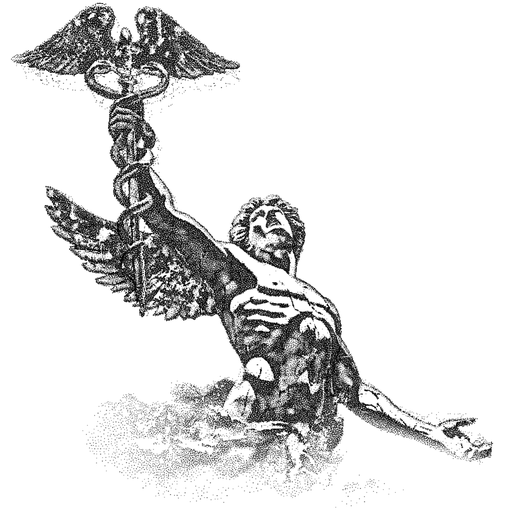
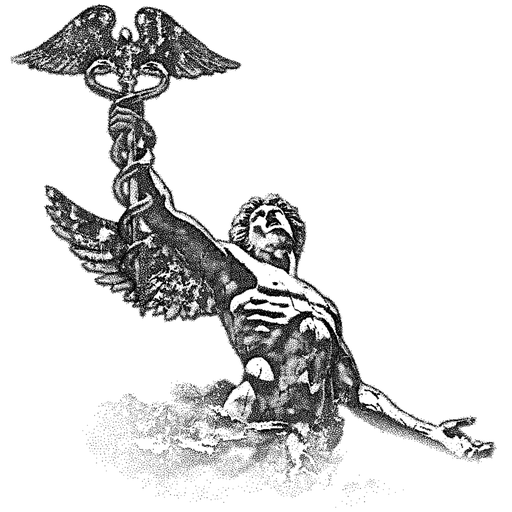
Keep the figure's detail as it turns: it moves as rigid parts, and its edges no longer spray apart
The owner's biggest complaint: as the figure moves the details get lost, some parts move and some don't. Measured
first (tools/qa/slide.mjs, new): for every pixel of the shipped depth map, its screen shift between yaw 0 and 16
degrees, with the engine's own smoothing, rotation, and projection at 1440 x 900; a rigid turn keeps that shift
smooth. Its local spread over neighbouring pixels was 4.5 px at the 95th percentile and 6.8 at the 99th, and 11.8%
of the figure slid more than 2 px apart from its neighbours: all along the outlines, where the depth model's surface
falls away towards the sky over a few pixels (the fringe's depth was as low as 0.1 against 0.6-0.9 inside), and on
the feathers, the coils, and the fingers, where it is noisy. That is the spray in 2x crops at the sway's extremes:
the fist, the open hand, the face, the far edge of the wing and of the chest, the caduceus's wings
(tools/qa/poses.mjs and crops.py, new, make those crops beside the avatar).

build.py now lays the relief out as rigid parts (parts(), rigid()): the big wing, the caduceus with its wings and
snakes, the raised arm and its fist, the head, the torso, the outstretched arm and its hand, and the base of clouds,
rubble, and lightning, drawn as polygons on the avatar; below the fist the caduceus is what lies nearer than the wing
it crosses (their depths part at 0.69). Each part's depth is smoothed inside its solid core only and carried out to
[…]

Changed region(s): [[0.0, 0.0, 0.9688, 0.9062], [0.5312, 0.6562, 0.5625, 0.6875], [0.3125, 0.7812, 0.3438, 0.8125]]

diff --git a/index.html b/index.html
@@ -76,7 +76,7 @@
           <li><a href="/work/?theme=physics-software" data-theme-link="physics-software"><span class="t-label muted">03</span><span class="t-small">Physics software</span><span class="t-label muted num">01</span></a></li>
         </ol>
       </nav>
-      <div class="fig-note"><p class="t-label muted">Fig. 0&nbsp;· Interactive sculpture</p><p class="t-small">My GitHub avatar as <span data-dot-count>92,319</span> dots in five materials, lifted into 3D with a monocular depth map. <span class="fine">Move the cursor to stir them.</span><span class="coarse">Drag sideways to turn it.</span></p><p class="fig-telemetry t-label muted num" data-hero-telemetry aria-hidden="true" hidden></p></div>
+      <div class="fig-note"><p class="t-label muted">Fig. 0&nbsp;· Interactive sculpture</p><p class="t-small">My GitHub avatar as <span data-dot-count>92,322</span> dots in five materials, lifted into 3D with a monocular depth map. <span class="fine">Move the cursor to stir them.</span><span class="coarse">Drag sideways to turn it.</span></p><p class="fig-telemetry t-label muted num" data-hero-telemetry aria-hidden="true" hidden></p></div>
     </div>
   </section>
 

diff --git a/js/hero.js b/js/hero.js
@@ -796,8 +796,10 @@
     "  px += (glint ? vec2(0.0) : flow) + u_offset;",
     "  float size = u_dot * (0.78 + 0.5 * a_p.w) * persp * persp * (1.0 + 0.3 * u_beat) * (1.0 + 0.6 * lift);",
     "  size *= shade * (1.0 + 0.4 * tw) * (1.0 + 0.25 * band) * (1.0 + 0.6 * star) * (1.0 - 0.3 * blown) * (1.0 + 0.2 * regrow) * (1.0 + 0.35 * strike);",
-    // fine features (high detail) are drawn with smaller dots, broad shadows with larger ones
-    "  size *= mix(1.0, 0.82, a_c.b);",
+    // fine features (high detail) are drawn with smaller dots, broad shadows with larger ones, on screens with the pixels
+    // for it: below 1.5 device pixels per CSS pixel a smaller dot is smaller than a pixel, and as the figure turns it
+    // flickers in and out of the pixels it crosses
+    "  size *= mix(1.0, 0.82, a_c.b * step(1.5, u_dpr));",
     // the face and the hands sit on a grid twice as fine: four dots, each 62% the size, where one would be
     "  size *= mix(1.0, 0.62, a_e.z);",
     "  size = mix(size * 0.7, size, k);",

diff --git a/tools/hero/build.py b/tools/hero/build.py
@@ -6,7 +6,8 @@ Turns assets/avatar.jpg into the data the WebGL engine (js/hero.js) stipples at 
                              in 64 levels (dense where the statue is dark)
   assets/hero/light.webp     896x896, lossless, gray: where the dots go on dark paper, where they stand for light
                              (dense where the statue is lit), in 64 levels
-  assets/hero/depth.webp     448x448, lossless: R = depth (near = bright, 0 = outside the figure), G = detail,
+  assets/hero/depth.webp     448x448, lossless: R = depth (near = bright, 0 = outside the figure), as rigid parts
+                             (rigid()), G = detail,
                              B = the sky's stars (0, or 1 + 254 x a star's strength)
   assets/hero/color.webp     448x448, lossless RGBA: R = material (gold, marble, cloud, lightning, glint) x 51,
                              G = how strongly the pixel belongs to it, B = how much of the figure there is the cloud
@@ -41,6 +42,7 @@ NORMALS_INPUT = 768
 INK_LEVELS = 64
 DENSITY = 0.85
 SHARPEN = 0.7                          # the unsharp mask over the whole figure
+STILL_GAIN = (0.965, 1.02)                # how wide the stills' dots are drawn, for the ink map and the light map
 CAVITY_INK, CAVITY_LIGHT = 0.35, 0.45  # how much a hollow darkens the ink, and takes from the light
 CLOUD_INK, CLOUD_LIGHT = 0.62, 0.6     # the clouds' darkest ink on light paper, and their brightest light on dark
 # The core of the body, in the chest (figure units): a sheen's wave of light runs out of the body from here.
@@ -286,7 +288,95 @@ def maps():
     # inside the bank the depth is smoothed and drawn into a narrow range around the statue's base.
     calm = blurf(vapour, 5.0)
     relief = dep * (1 - calm) + calm * (0.64 + 0.28 * blurf(dep, 8.0))
+    relief = rigid(relief, parts(relief, mask, statue))
     return relief, ink, light, mask, statue, detail, own
+
+
+# The figure's rigid parts, each of which turns as one body (labels 1-7 in PARTS order, 0 outside the figure):
+PARTS = ['wing', 'caduceus', 'arm', 'head', 'torso', 'reach', 'base']
+# drawn as polygons in the 424 px avatar's coordinates. The caduceus: its wings and the snakes' heads above the fist,
+# and below it the staff and the coils, which cross the wing in front of it (CADUCEUS_NEAR); the fist; the big wing,
+# up under the raised arm; the raised arm from the wrist to the shoulder; the head and its curls; the outstretched arm
+# and its open hand; the torso, from the neck and the shoulders down into the clouds. The base is the clouds, the rubble,
+# and the lightning.
+CADUCEUS_TOP = [(0, 0), (200, 0), (200, 92), (138, 92), (132, 106), (60, 106), (58, 92), (0, 92)]
+CADUCEUS_LOW = [(86, 104), (130, 104), (128, 150), (130, 200), (127, 250), (98, 256), (84, 200), (82, 150)]
+CADUCEUS_NEAR = 0.69
+FIST = [(84, 100), (126, 97), (133, 142), (90, 147)]
+WING = [(26, 155), (80, 176), (118, 190), (140, 196), (165, 214), (184, 232), (182, 272), (122, 270), (72, 244), (36, 207)]
+RAISED = [(106, 138), (132, 132), (160, 162), (178, 180), (190, 198), (196, 214), (192, 240), (178, 246), (160, 226),
+          (140, 204), (118, 172)]
+HEAD = [(166, 204), (170, 182), (182, 168), (203, 161), (224, 166), (237, 184), (238, 210), (232, 228), (213, 234),
+        (194, 232), (178, 224)]
+REACH = [(246, 270), (276, 282), (304, 304), (338, 328), (372, 332), (390, 346), (384, 374), (350, 378), (322, 362),
+         (292, 348), (262, 326), (238, 302)]
+CHEST = [(176, 212), (205, 236), (232, 232), (250, 250), (268, 268), (280, 300), (276, 345), (240, 355), (196, 355),
+         (165, 338), (160, 300), (168, 262), (172, 240)]
+# Each part's depth is smoothed over SIGMA px (at N; the base keeps the bank's own calm relief) and squeezed towards its
+# mean by SQUASH (the wing is thin and flat; the caduceus nearly so), and keeps KEEP of the depth's own detail within
+# +-DETAIL of that surface.
+SIGMA = {'wing': 12.0, 'caduceus': 7.0, 'arm': 6.0, 'head': 5.0, 'torso': 9.0, 'reach': 7.0, 'base': 0.0}
+SQUASH = {'wing': 0.55, 'caduceus': 0.8, 'arm': 1.0, 'head': 0.9, 'torso': 1.0, 'reach': 0.9, 'base': 1.0}
+KEEP, DETAIL = 0.35, 0.03
+
+
+def parts(relief, mask, statue):
+    """Which part each pixel of the figure belongs to (labels in PARTS order, 1-7; 0 outside): the polygons, painted
+    back to front, the caduceus below the fist only where it lies nearer than the wing it crosses, and whatever is left
+    taking its nearest part."""
+    inside = mask > 0.04
+    solid = statue > 0.3
+    label = np.zeros((N, N), np.int32)
+    paint = lambda area, name: label.__setitem__(inside & area, PARTS.index(name) + 1)
+    paint(solid & zone(CHEST, N), 'torso')
+    paint(clouds(N) & ~(solid & zone(TORSO, N)), 'base')
+    paint(zone(WING, N), 'wing')
+    paint(zone(REACH, N) | (zone(ARM, N) & solid), 'reach')
+    paint(zone(RAISED, N), 'arm')
+    paint(zone(HEAD, N), 'head')
+    paint(zone(CADUCEUS_TOP, N), 'caduceus')
+    paint(zone(CADUCEUS_LOW, N) & (relief > CADUCEUS_NEAR), 'caduceus')
+    paint(zone(RAISED, N) & ~zone(CADUCEUS_TOP, N), 'arm')
+    paint(zone(FIST, N), 'arm')
+    for _ in range(N):
+        empty = inside & (label == 0)
+        if not empty.any():
+            break
+        for dy, dx in ((0, 1), (0, -1), (1, 0), (-1, 0)):
+            near = np.roll(np.roll(label, dy, 0), dx, 1)
+            take = empty & (label == 0) & (near > 0)
+            label[take] = near[take]
+    label[~inside] = 0
+    return label
+
+
+def rigid(relief, label):
+    """The relief as rigid parts: each part's own smooth surface, so that as the figure turns its dots move together
+    instead of some sliding against their neighbours. The depth model's surface is noisy on thin forms (the feathers,
+    the coils, the fingers), and at every outline it falls away towards the sky over a few pixels, so the dots along an
+    edge sprayed apart as the figure turned. Each part's depth is smoothed inside its solid core only (not its fringe)
+    and carried out to its outline, keeps a little of its own detail, and the thin parts are squeezed into a narrower
+    range; then the parts are blended over a few pixels where they meet, so neighbours stretch a little rather than
+    tear, while each keeps its own surface right up to the figure's edge."""
+    out, total = np.zeros_like(relief), np.zeros_like(relief)
+    for k, name in enumerate(PARTS, 1):
+        part = (label == k).astype(np.float32)
+        if not part.any():
+            continue
+        surface = relief
+        if SIGMA[name]:
+            core = part * smoothstep(0.30, 0.45, relief) * (blurf(part, 2.0) > 0.9)
+            reach = blurf(core, SIGMA[name])
+            surface = blurf(relief * core, SIGMA[name]) / np.maximum(reach, 1e-6)
+            wide = blurf(relief * core, SIGMA[name] * 4) / np.maximum(blurf(core, SIGMA[name] * 4), 1e-9)
+            surface = np.where(reach < 1e-3, wide, surface)
+            mean = (surface * part).sum() / part.sum()
+            surface = mean + SQUASH[name] * (surface - mean)
+            surface = surface + KEEP * np.clip(relief - surface, -DETAIL, DETAIL) * smoothstep(0.5, 1.0, blurf(core, 2.0))
+        soft = blurf(part, 3.0)
+        out += soft * surface
+        total += soft
+    return np.where(total > 1e-6, out / np.maximum(total, 1e-6), relief)
 
 
 # The five materials, in index order. css/site.css gives each a base and a lit color per mode.
@@ -429,8 +519,8 @@ def lossless(a, name):
     Image.fromarray(a).save(os.path.join(OUT, name), 'WEBP', lossless=True, quality=100, method=6, exact=True)
 
 
-def still(levels, bn, dep, detail, meta, suffix):
-    """Still frame: the same threshold stipple at 1000px with round dots, smaller where detail is high, placed the way
+def still(levels, bn, dep, meta, suffix, gain):
+    """Still frame: the same threshold stipple at 1000px with round dots (`gain` times as wide), placed the way
     the engine draws the figure facing the viewer: its bounds fill the box less a 2% margin (fit() in js/hero.js) and
     each dot is foreshortened by its depth around the centre of mass. The still covers the page until the first frame
     is drawn, so in the opening, where that frame is the figure held still in its ink, one turns into the other in
@@ -439,7 +529,7 @@ def still(levels, bn, dep, detail, meta, suffix):
     res = 860
     sx, sy, sv = stipple(levels, bn, res)
     iy, ix = np.minimum((sy + 0.5) / res * N, N - 1).astype(int), np.minimum((sx + 0.5) / res * N, N - 1).astype(int)
-    sd, sz = detail[iy, ix], dep[iy, ix]
+    sz = dep[iy, ix]
     (x0, y0, x1, y1), (px, py) = meta['bounds'], meta['center']
     k = 0.96 / max(x1 - x0, y1 - y0)
     ox, oy = (1 - (x1 - x0) * k) / 2 - x0 * k, (1 - (y1 - y0) * k) / 2 - y0 * k
@@ -449,8 +539,8 @@ def still(levels, bn, dep, detail, meta, suffix):
     u, v_ = (ox + (px + (fx - px) * persp) * k) * 2 * S, (oy + (py + (fy - py) * persp) * k) * 2 * S
     im = Image.new('L', (S * 2, S * 2), 0)
     dr = ImageDraw.Draw(im)
-    for cx, cy, v, dd, f in zip(u, v_, sv, sd, persp):
-        r = (0.9 + 0.55 * v) * 1.2 * (1 - 0.3 * dd) * k * f
+    for cx, cy, v, f in zip(u, v_, sv, persp):
+        r = (0.9 + 0.55 * v) * 1.2 * gain * k * f
         dr.ellipse([cx - r, cy - r, cx + r, cy + r], fill=int(160 + 95 * min(1, v * 1.4)))
     im = im.resize((S, S), Image.LANCZOS)
     rgba = Image.merge('RGBA', [Image.new('L', (S, S), 0)] * 3 + [im])
@@ -534,8 +624,8 @@ def main():
     json.dump(meta, open(os.path.join(OUT, 'hero.json'), 'w'), indent=1)
 
     # the stills cover the page on light and dark paper, where the bank is not drawn
-    n = still(levels * (1 - own), bn, dep, detail, meta, '')
-    still(light_levels * (1 - own), bn, dep, detail, meta, '-dark')
+    n = still(levels * (1 - own), bn, dep, meta, '', STILL_GAIN[0])
+    still(light_levels * (1 - own), bn, dep, meta, '-dark', STILL_GAIN[1])
     print(json.dumps(meta), n, 'still points')
 
 

diff --git a/tools/qa/crops.py b/tools/qa/crops.py
@@ -1,0 +1,79 @@
+"""Side-by-side crops of the hero's features at 2x: the avatar, then each pose that tools/qa/poses.mjs wrote, each crop
+centred on the feature as the figure is turned (the engine's rotation and projection, depth from depth.webp).
+    python3 tools/qa/crops.py <poses-dir> <out.png> [pose,pose,...]
+A pose is a name in <poses-dir> or <other-dir>:<name>, so a column can come from another run (before and after).
+FEATS=face,fist,cad-top,wing-big,chest,open hand picks the rows; ROOT reads hero.json and depth.webp from another
+checkout. Needs numpy and Pillow.
+"""
+import json, math, os, sys
+import numpy as np
+from PIL import Image, ImageDraw
+
+SITE = os.path.abspath(os.path.join(os.path.dirname(__file__), '..', '..'))
+args = sys.argv[1:]
+src, out = args[0], args[1]
+names = args[2].split(',') if len(args) > 2 else ['rest', 'turn-20', 'sway-plus', 'sway-minus']
+names = [n if ':' in n else src + ':' + n for n in names]
+info = json.load(open(os.path.join(src, 'poses.json')))
+feats = os.environ.get('FEATS')
+root = os.environ.get('ROOT', SITE)
+meta = json.load(open(os.path.join(root, 'assets/hero/hero.json')))
+depth = np.asarray(Image.open(os.path.join(root, 'assets/hero/depth.webp')).convert('RGB'))[..., 0].astype(np.float32) / 255
+avatar = Image.open(os.path.join(SITE, 'tools/hero/avatar-424.jpg')).convert('RGB')
+fr, clip, dpr = info['frame'], info['clip'], info.get('dpr', 1)
+cx, cy = meta['center']
+# features: name, centre (figure units), half-size (figure units)
+FEAT = [('face', (0.497, 0.45), 0.085), ('fist', (0.236, 0.29), 0.075), ('caduceus top', (0.24, 0.13), 0.11),
+        ('wing', (0.24, 0.50), 0.12), ('chest', (0.53, 0.62), 0.09), ('open hand', (0.855, 0.83), 0.085)]
+ZOOM = 2
+
+
+def project(fx, fy, yaw, pitch):
+    d = depth[min(447, max(0, round(fy * 447))), min(447, max(0, round(fx * 447)))]
+    p = np.array([fx - cx, cy - fy, (max(d, 0.3) - 0.62) * 0.34])
+    c, s = math.cos(yaw), math.sin(yaw)
+    p = np.array([p[0] * c + p[2] * s, p[1], -p[0] * s + p[2] * c])
+    c, s = math.cos(pitch), math.sin(pitch)
+    p = np.array([p[0], p[1] * c - p[2] * s, p[1] * s + p[2] * c])
+    k = 3.2 / (3.2 - p[2])
+    return fr['left'] + (cx + p[0] * k) * fr['scale'], fr['top'] + (cy - p[1] * k) * fr['scale']
+
+
+FEAT2 = {'wing-big': ('wing', (0.25, 0.50), 0.16), 'cad-top': ('caduceus top', (0.23, 0.13), 0.13), 'rubble': ('rubble', (0.40, 0.84), 0.14)}
+if feats:
+    FEAT = [next(f for f in FEAT if f[0] == k) if k not in FEAT2 else FEAT2[k] for k in feats.split(',')]
+cells = []
+for fname, (fx, fy), r in FEAT:
+    row = []
+    side = int(round(2 * r * fr['scale'])) * ZOOM
+    a = avatar.crop((int((fx - r) * 424), int((fy - r) * 424), int((fx + r) * 424), int((fy + r) * 424))).resize((side, side), Image.LANCZOS)
+    row.append(a)
+    for col in names:
+        d_, n = col.split(':')
+        pinfo = json.load(open(os.path.join(d_, 'poses.json')))
+        pose = pinfo['poses'][n]
+        sx, sy = project(fx, fy, math.radians(pose['yaw']), math.radians(pose['pitch']))
+        shot = Image.open(os.path.join(d_, n + '.png')).convert('RGB')
+        half = r * fr['scale']
+        box = [(sx - half - clip['x']) * dpr, (sy - half - clip['y']) * dpr, (sx + half - clip['x']) * dpr, (sy + half - clip['y']) * dpr]
+        c = shot.crop(tuple(int(round(v)) for v in box)).resize((side, side), Image.NEAREST if dpr == 1 else Image.LANCZOS)
+        row.append(c)
+    cells.append(row)
+cw = [max(r[i].width for r in cells) for i in range(len(cells[0]))]
+ch = [max(c.height for c in r) for r in cells]
+pad, top = 6, 18
+sheet = Image.new('RGB', (sum(cw) + pad * (len(cw) + 1), sum(ch) + pad * (len(ch) + 1) + top), (128, 128, 128))
+d = ImageDraw.Draw(sheet)
+x = pad
+for i, label in enumerate(['avatar'] + [f"{os.path.basename(c.split(':')[0])} {c.split(':')[1]}" for c in names]):
+    d.text((x + 2, 3), label, fill=(255, 255, 255))
+    x += cw[i] + pad
+y = pad + top
+for j, row in enumerate(cells):
+    x = pad
+    for i, c in enumerate(row):
+        sheet.paste(c, (x, y))
+        x += cw[i] + pad
+    y += ch[j] + pad
+sheet.save(out)
+print(out, sheet.size)

diff --git a/docs/design-spec.md b/docs/design-spec.md
@@ -122,6 +122,7 @@ Arrows appear only where they carry meaning: ↗ marks a link that leaves the si
 - **Offline preparation, committed with its script** (`tools/hero/build.py`).
   - The source is the 424 px GitHub avatar (kept as `tools/hero/avatar-424.jpg`; no larger original exists), upscaled 4× to 1696 px as an even blend of Real-ESRGAN x4plus, which sharpens edges, and Real-ESRNet x4plus, its PSNR-trained sibling, which invents no texture (both BSD-3-Clause). Checked by eye on the face and both hands: it sharpens what the render already shows and adds no features. Detail was limited by the source, not the shader, so this is where the pass starts.
   - A depth map from Depth Anything V2 Base (CC BY-NC 4.0) run at 1036 px and cached as 16-bit; it separates the eye sockets, the nose, the fingers of the fist, and the open hand from the clouds behind it.
+  - The relief is laid out as rigid parts, so the figure turns as a solid statue (`parts()` and `rigid()`). The depth model's surface is noisy on thin forms (the feathers, the coils, the fingers) and at every outline falls away towards the sky over a few pixels, so as the figure turned the dots along each edge sprayed apart and neighbours slid against each other. Seven parts are drawn as polygons on the avatar (the big wing, the caduceus with its wings and snakes, the raised arm and its fist, the head and its curls, the torso, the outstretched arm and its open hand, and the base of clouds, rubble, and lightning; below the fist the caduceus is what lies nearer than the wing it crosses). Each part's depth is smoothed inside its solid core only and carried out to its outline (σ 5–12 px at 896 by part), keeps 35% of its own detail within ±0.03, and the thin parts are squeezed towards their mean (the wing to 55%, the caduceus to 80%); the parts are then blended over a few pixels where they meet, so neighbours stretch a little rather than tear, while each keeps its own surface up to the figure's edge. At 16° of yaw the local spread of the dots' screen shift (`tools/qa/slide.mjs`) fell from 4.5 px to 1.2 px at the 95th percentile, and the share of the figure sliding more than 2 px apart from 11.9% to 1.3%.
   - A figure mask (statue, wings, caduceus, the outstretched arm and open hand, and the bank of clouds below; the starfield is dropped). The bank takes in the avatar's billows wherever they are lit against the dark sky between them, across the band below the statue and up the left beside the torso, and fades into the paper over a long soft gradient at the bottom, both sides, and before the open hand. Its relief is smoothed into a narrow range around the statue's base (0.64 to 0.92), so the far billows never step away from the near ones as the figure turns; the frame and the centre in `hero.json` stay the statue's.
   - A normal map from Marigold normals v1.1 (CreativeML Open RAIL++-M; five predictions at 768 px, cached 8-bit as `tools/hero/normals.png`, `--normals` regenerates it) and the depth together find the figure's hollows (`hollows()`): the depth's own, how far the surface around a point lies in front of it, sees steps between forms; the convergence of the normals sees the gentle grooves the depth smooths away. Each is normalised inside the statue and compressed so a crease reads without a deep occlusion swamping it, and a hollow counts only where the avatar is locally darker too, since the normals blur the open hand's fingers, misread the upturned face, and invent a six-pack at higher resolutions; an overlay on the avatar shows none the image does not. Hollows darken the ink (by up to 0.35) and take from the light (0.45), so the grooves between the abdominal muscles, under the pectorals, between the fingers, the snakes against the staff, and the feathers against the wing read as concavities in both modes. The clouds get their own light and shadow from the normals turned towards the sky with the avatar's own light on them: on light paper lighter than the stone (their darkest ink 0.62) and never inked where they thin out against the sky, so no billow is outlined; on dark paper lit cloud, their tops dense with light (0.6 at most).
   - An ink map at 896 px. The image's own tone and local shadows lead, because they carry the features (eye sockets, nostrils, the open mouth); the depth surface lit from the upper left adds the turn of the form; contours come from the silhouette and from steps in depth (fingers against the palm, snakes against the staff); a floor keeps lit stone drawn, and a contrast curve sets features off the skin. Local contrast multiplies the ink by up to 1.6, so features get denser dots. An unsharp mask (1.5 px, 0.7) over the whole figure sets the feathers, the snakes, the curls, the fingers, and the muscles off the stone. Quantised to 64 levels and stored as lossless WebP (about 111 KB).
@@ -132,7 +133,7 @@ Arrows appear only where they carry meaning: ↗ marks a link that leaves the si
   - Blue-noise threshold stippling inside the mask, a little denser than one cell per CSS pixel (1.4 cells per pixel of the figure's width, 320 to 1200 cells across). On light paper it stipples the ink map, so shadows read as dense dots and lit stone as sparse dots, like an engraving; on dark paper, Gear Two's included, the light map, so lit stone reads as dense dots and shadow as sparse ones, a lit statue in a dark room (`dotMap(colors)`, exported and unit-tested).
   - On screens of 1.5 device pixels per CSS pixel or more the whole figure is stippled on a grid twice as fine, four cells where one would be, with dots 62% the size, so the feathers, the snakes, the curls, the fingers, the muscles, and the billows are drawn as finely as the face. Each cell keeps its tone: a fine cell is kept against the ink times 1 / (4 × 0.62²) (four dots that small would otherwise cover 1.54 times the paper one dot does), and a fine dot grows with its ink by up to 0.65 of the way back to full size (`fineScale`, the dot-size byte `a_e.z`), so a shadow stays as solid as on the coarse grid; a 2× screen covers 1.06 times the paper a 1× screen does. Below 1.5 a finer dot is smaller than a pixel and only darkens the stone, so the grid stays as it is. `stipple()` visits only the columns of each row that can hold ink.
   - On light paper 105,788 dots at 1440 × 900, 276,489 on a 2× screen, 29,291 at 390 wide, and 76,485 on a 2× phone; on dark paper 74,024, 193,685, 20,504, and 53,560. JS stays at 0.4–0.5 ms a frame.
-  - Each dot gets its z and a surface normal from the depth map, smoothed inside the figure first so its 8-bit steps never terrace the lighting, a detail value that shrinks its dot by up to 18% (features are drawn with small dense dots, broad shadows with larger ones), and how far it lies from the outline and which way is out of the figure from it (`outlineField`, on the depth map's mask): where a gust or the breeze lifts it off as dust, and which way it leaves (§ Wind). The vertex is 36 bytes.
+  - Each dot gets its z and a surface normal from the depth map, smoothed inside the figure first so its 8-bit steps never terrace the lighting, a detail value that shrinks its dot by up to 18% on screens of 1.5 device pixels per CSS pixel or more (features are drawn with small dense dots, broad shadows with larger ones; below that a smaller dot is smaller than a pixel and flickers in and out of the pixels it crosses as the figure turns), and how far it lies from the outline and which way is out of the figure from it (`outlineField`, on the depth map's mask): where a gust or the breeze lifts it off as dust, and which way it leaves (§ Wind). The vertex is 36 bytes.
 - **Render.**
   - One draw call of round anti-aliased dots. Dot size follows depth and Lambert light from the upper left, which is what makes it read as a sculpted object rather than a flat dither. Each dot's sprite is half a device pixel wider than the dot, so most of the soft edge of a small dot is drawn instead of clipped: without it a one-pixel dot lost a third of its weight, and the drawn figure looked paler than the still it replaces (a whole pixel matched the still too, but cost a tenth of the frame rate under SwiftShader). The varyings are flat: a point's fragments share them.
   - Ink is black on light, warm white on dark, red in Gear Two, until the colours arrive; then it moves from the mode's fill to its key with the lighting term (`u_tone`, §5). DPR is capped at 2.

diff --git a/README.md b/README.md
@@ -20,7 +20,9 @@ one-sided shine in each mode's colour, a figure that breathes and flows, the clo
 a blue gear reached by hand with a control that reads as a gear shift, and a new cursor in red) is
 [docs/next-4.md](docs/next-4.md); the earlier ones are `docs/next.md`, `next-2.md`, and `next-3.md`. Its QA tools are
 in `tools/qa/`: `shots.mjs` (screenshots, and a `film` mode that plays the opening under virtual time), `reel.mjs`,
-`fps.mjs`, `holdframe.mjs`, `margins.mjs`, `shadercheck.mjs`, and `counts.mjs`.
+`fps.mjs`, `holdframe.mjs`, `margins.mjs`, `shadercheck.mjs`, `counts.mjs`, `slide.mjs` (how unevenly the dots slide as
+the figure turns), and `poses.mjs` with `crops.py` (the figure at rest, mid-turn, and at both extremes, cropped beside the
+avatar).
 
 ## How it works
 
@@ -46,7 +48,7 @@ in `tools/qa/`: `shots.mjs` (screenshots, and a `film` mode that plays the openi
   map for the paper it opens on; when the lights or Gear Two change the paper, the other map is fetched, the figure
   dims until it arrives, and a band of light crosses it and swaps the dots behind it (at once under Gear Two's flash
   and glitch, and under reduced motion). It takes each dot's depth, surface normal, distance to the figure's edge, and detail from
-  `assets/hero/depth.webp` (the depth smoothed inside the figure first, so the lighting never bands), and its material
+  `assets/hero/depth.webp` (laid out as rigid parts, so the figure turns as a solid statue instead of its edges spraying apart, and smoothed inside the figure first, so the lighting never bands), and its material
   from `assets/hero/color.webp` (gold, marble, cloud, lightning, or glint), colored from a palette designed per mode
   in `css/site.css` that moves each material from its base to its lit color as the figure turns (marble stays ink; the
   map's alpha carries the image's sparkles, which twinkle). Once the colors have arrived the ink takes the light as the
